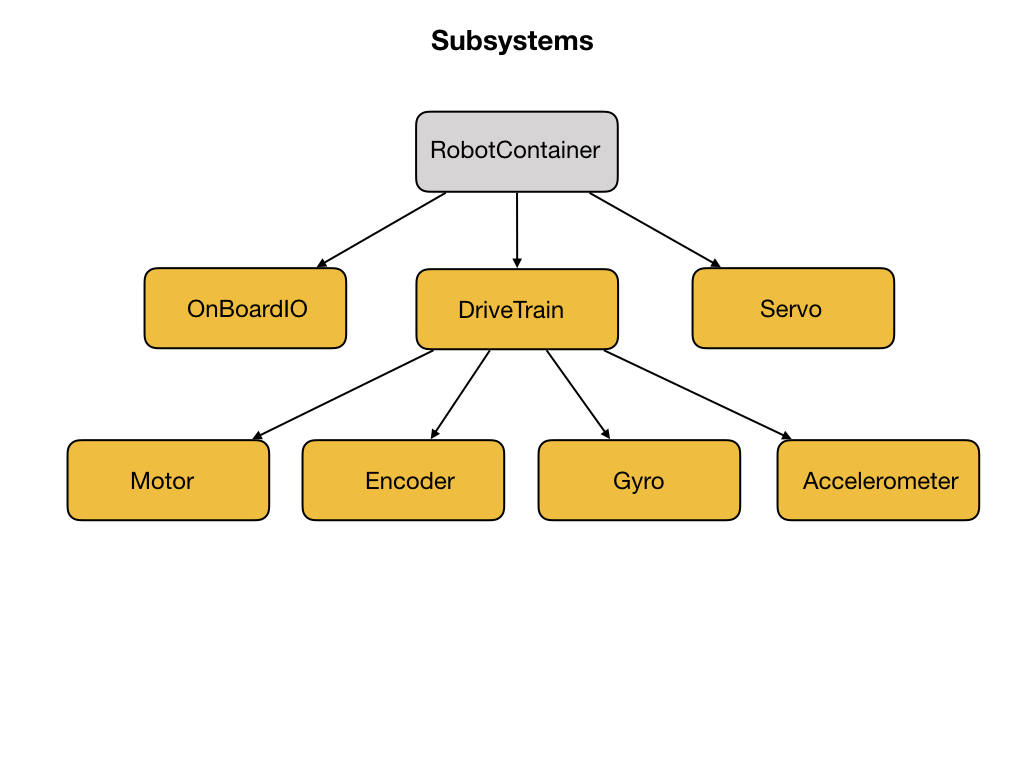
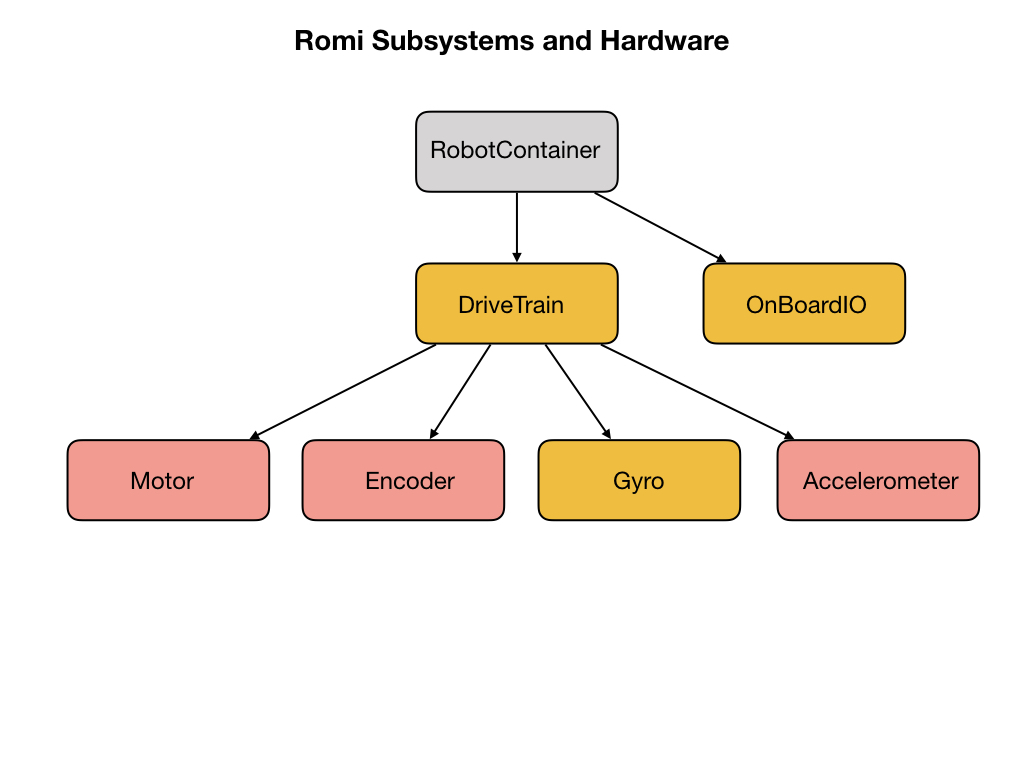
Added FRC Documentation links

diff --git a/Tools/romiSubsystems.md b/Tools/romiSubsystems.md
@@ -1,12 +1,16 @@
 # <a name="code"></a>Subsystems
-Subsystems are the basic unit of robot organization in the Command-based framework.  They encapsulate low-level hardware objects (motor controllers, sensors, etc) and provide methods that can be used by Commands.  Hardware resources used within a subsystem should generally remain encapsulated and not be shared by other parts of the robot.
+Subsystems are the basic units of functionally for our robot, such as drive trains and mechanical arms.  They encapsulate low-level hardware objects (motor controllers, sensors, etc) and provide methods that can be used by Commands.  We represent subsystems in code by using [Objects](../Programming/objects). Objects are composed of [Data Structures](../Programming/dataStructures) and [Procedures](../Programming/procedures), as explained in [Introduction to Programming](../Programming/introProgramming). You should learn those concepts before we look at the subsystems that are on the Romi.  
+
+ More information can be found in the [Subsystems](https://docs.wpilib.org/en/latest/docs/software/commandbased/subsystems.html) section of the FRC Documentation.  
 
 ![Subsystems](../images/Romi/Romi.012.jpeg)
 
-## Lab - DriveTrain Subsystem
-Explain the DriveTrain class and 
+## DriveTrain Subsystem
+The Romi uses a drive train called a [Differential Drive](https://docs.wpilib.org/en/stable/docs/software/actuators/wpi-drive-classes.html#using-the-differentialdrive-class-to-control-differential-drive-robots). There are three [drive train modes](https://docs.wpilib.org/en/stable/docs/software/actuators/wpi-drive-classes.html#drive-modes) that can be implemented. The Romi uses the **Arcade** drive mode. To understand what type of maneuvers are possible using a Differential Drive robots we need to learn a little bit about [Kinematics](../Concepts/kinematics).
 
-## Lab - Gyro Subsystem
+![Differential Drive](../images/Romi/Romi.038.jpeg)
+
+## Gyro Subsystem
 add in the Gyro class.
 
 ## The periodic( ) method
@@ -15,6 +19,13 @@ This method is called periodically by the CommandScheduler. Useful for updating 
 ## The register( ) method 
  Subsystems must be registered with the scheduler with the CommandScheduler's **registerSubsystem( )** method in order for the Subsystem **periodic()** method to be called. It is recommended that this method be called from the constructor of users' Subsystem implementations. The SubsystemBase class offers a simple base for user implementations that handles this.
 
+## References
+
+- FRC Documentation - [Subsystems](https://docs.wpilib.org/en/latest/docs/software/commandbased/subsystems.html)
+
+- FRC Documentation - [Diffential Drive Robots](https://docs.wpilib.org/en/stable/docs/software/actuators/wpi-drive-classes.html)
+
+- QUT Robot Academy [Measuring Motion](https://robotacademy.net.au/masterclass/measuring-motion/)
 
 <h3><span style="float:left">
 <a href="romiCode1">Previous</a></span>

diff --git a/Concepts/RobotSystem/sensors.md b/Concepts/RobotSystem/sensors.md
@@ -1,5 +1,19 @@
 # Sensors
 
+## Encoders
+FRC Documentation - [Encoders](https://docs.wpilib.org/en/latest/docs/software/hardware-apis/sensors/encoders-software.html)
+
+## Gyros
+FRC Documentation - [Gyros](https://docs.wpilib.org/en/latest/docs/software/hardware-apis/sensors/gyros-software.html)
+
+Also QUT Robot Academy [Measuring Motion](https://robotacademy.net.au/masterclass/measuring-motion/)
+
+## Accelerometers
+FRC Documentation - [Accelerometers](https://docs.wpilib.org/en/latest/docs/software/hardware-apis/sensors/accelerometers-software.html)
+
+## Cameras
+The camera corresponds to the eye in the robot. The images obtained from the camera are very useful for recognizing the environment around the robot. For example, object recognition using a camera image, facial recognition, a distance value obtained from the difference between two different images using two cameras (stereo camera), mono camera visual SLAM, color recognition using information obtained from an image and object tracking are very useful.
+
 ## Laser Distance Sensors (LDS)
 Edit all of this....
 Laser Distance Sensors (LDS) are referred to various names such as Light Detection And Ranging (LiDAR), Laser Range Finder (LRF) and Laser Scanner. LDS is a sensor used to measure the distance to an object using a laser as its source. The LDS sensor has the advantage of high performance, high speed, real time data acquisition, so it has a wide range of applications in relation to distance measurement. This is a sensor widely used in the field of robots for recognition of objects and people, and distance sensor based SLAM (distance-based sensor), and also widely used in unmanned vehicles due to its real time data acquisition.
@@ -12,9 +26,8 @@ Also, because the horizontal plane is scanned, only objects on the horizontal pl
 
 There are infinite usages of LDS, and SLAM (Simultaneous Localization And Mapping)16 is one of the most well known examples of using LDS. SLAM creates a map by recognizing obstacles around the robot and estimates current position of the robot within a map. As another example of using LDS, the robot is able to detect various objects in the surroundings and react based on the current environment. 
 
-## Cameras
-The camera corresponds to the eye in the robot. The images obtained from the camera are very useful for recognizing the environment around the robot. For example, object recognition using a camera image, facial recognition, a distance value obtained from the difference between two different images using two cameras (stereo camera), mono camera visual SLAM, color recognition using information obtained from an image and object tracking are very useful.
-
+## References
+- FRC Documentation - [Sensors](https://docs.wpilib.org/en/latest/docs/software/hardware-apis/sensors/index.html)
 
 <h3><span style="float:left">
 <a href="intro">Previous</a></span>

diff --git a/Tools/romiCommands.md b/Tools/romiCommands.md
@@ -1,5 +1,7 @@
 # <a name="code"></a>Commands
-Commands define high-level robot actions or behaviors that utilize the methods defined by the subsystems. A command is a simple state machine that is either initializing, executing, ending, or idle. Users write code specifying which action should be taken in each state. Subsystems are used by the CommandScheduler resource management system to ensure multiple robot actions are not "fighting" over the same hardware resource. Commands that use a subsystem should include that subsystem in their getRequirements() method.
+Commands define high-level robot actions or behaviors that utilize the methods defined by the subsystems. Before looking at the commands that are implemented on the Romi you should be very familiar with [Procedures](../Programming/procedures) and [State Machines](../Programming/stateMachines) from the programming sections.  You should also review the FRC Documentation on [Commands](https://docs.wpilib.org/en/latest/docs/software/commandbased/commands.html) before continuing.
+
+A command is a simple state machine that is either initializing, executing, ending, or idle. Users write code specifying which action should be taken in each state. Subsystems are used by the CommandScheduler resource management system to ensure multiple robot actions are not "fighting" over the same hardware resource. Commands that use a subsystem should include that subsystem in their `getRequirements()` method.
 
 ![Commands](../images/Romi/Romi.015.jpeg)
 
@@ -56,9 +58,10 @@ Add the DriveDistance and TurnDegrees commands.
 Configure joystick buttons to run commands.
 
 
-
-
 ## References
+
+- FRC Documentation - [Command Based Programming](https://docs.wpilib.org/en/latest/docs/software/commandbased/index.html)
+
 [Amazon Example](https://s3.amazonaws.com/screensteps_live/exported/Wpilib/2078/2286/Command_based_programming.pdf?1478686718)
 
 <h3><span style="float:left">

diff --git a/Tools/VSCode.md b/Tools/VSCode.md
@@ -7,7 +7,7 @@ An Integrated Development Environment (IDE) is a piece of software that is used 
 - Applies colour schemes to your code so it’s easier to interpret.
 - Some will have code completion, which will actually fill in some code for you. 
 
-Visual Studio Code is the supported IDE for programming an FRC robot. If you don't have VSCode installed on your computer the best way of doing this is to follow the instructions on the [FRC Documentation Website](https://docs.wpilib.org/en/latest/docs/getting-started/getting-started-frc-control-system/wpilib-setup.html). These instructions will also install the WPI Library which is used for programming the FRC robot.
+Visual Studio Code is the supported IDE for programming an FRC robot. If you don't have VSCode installed on your computer the best way of doing this is to follow the instructions on the [FRC Documentation Website](https://docs.wpilib.org/en/latest/docs/getting-started/getting-started-frc-control-system/wpilib-setup.html). These instructions will also install the WPI Library which is used for programming the FRC robot. Additional information is also found at [FRC Documentation VSCode Overview](https://docs.wpilib.org/en/latest/docs/software/vscode-overview/index.html).
 
 ## Using Live Share
 Live Share enables you to quickly collaborate with a friend, classmate, or professor on the same code without the need to sync code or to configure the same development tools, settings, or environment.
@@ -55,7 +55,9 @@ To end a Live Share session click on the **X** next to the participants name.
 ![End Session](../images/Tools/LSEndSession.png)
 
 
-## Additional References
+## References
+
+- FRC Documentation - [VSCode Overview](https://docs.wpilib.org/en/latest/docs/software/vscode-overview/index.html)
 
 Here are some videos that give you a good introduction to VSCode:
 

diff --git a/Tools/romiPathPlanning.md b/Tools/romiPathPlanning.md
@@ -2,13 +2,17 @@
 Use Ramsete controller to follow a path.
 
 ## References
-[FRC Documentation - Path Planning](https://docs.wpilib.org/en/latest/docs/software/pathplanning/index.html)
+- FRC Documentation - [Path Planning](https://docs.wpilib.org/en/latest/docs/software/pathplanning/index.html)
 
-[FRC Documentation - Trajectory Following](https://docs.wpilib.org/en/latest/docs/software/advanced-controls/trajectories/index.html)
+- FRC Documentation - [Trajectory Following](https://docs.wpilib.org/en/latest/docs/software/advanced-controls/trajectories/index.html)
 
-[Ramsete Example Code - github](https://github.com/bb-frc-workshops/romi-examples/tree/main/romi-trajectory-ramsete)
+- FRC Documentation - [Robot Characterization](https://docs.wpilib.org/en/stable/docs/software/wpilib-tools/robot-characterization/index.html)
 
-[Auto driving example - github](https://github.com/calcmogul/auton-driving-presentation)
+- FRC Documentation - [PathWeaver](https://docs.wpilib.org/en/stable/docs/software/wpilib-tools/pathweaver/index.html)
+
+- [Ramsete Example Code - github](https://github.com/bb-frc-workshops/romi-examples/tree/main/romi-trajectory-ramsete)
+
+- [Auto driving example - github](https://github.com/calcmogul/auton-driving-presentation)
 
 
 <h3><span style="float:left">

diff --git a/Programming/stateMachines.md b/Programming/stateMachines.md
@@ -1,11 +1,36 @@
 # State Machines
 
+1. Initial State
 
-Initial State
-Next Step (receive and process new input)
-Measurement Update (transduce, make repeated calls to Step)
+2. Next Step (receive and process new input)
+
+3. Measurement Update (transduce, make repeated calls to Step)
 
 ![State Machines](../images/FRCProgramming/FRCProgramming.009.jpeg)
+
+Let's look at code from the Romi reference program to see an example of a State Machine.
+
+    // Called when the command is initially scheduled.
+      public void initialize() {
+        m_drive.arcadeDrive(0, 0);
+        m_drive.resetEncoders();
+      }
+
+    // Called every time the scheduler runs while the command is scheduled.
+    public void execute() {
+      m_drive.arcadeDrive(m_speed, 0);
+    }
+
+    // Called once the command ends or is interrupted.
+    public void end(boolean interrupted) {
+      m_drive.arcadeDrive(0, 0);
+    }
+
+    // Returns true when the command should end.
+    public boolean isFinished() {
+      // Compare distance travelled from start to desired distance
+      return Math.abs(m_drive.getAverageDistanceInch()) >= m_distance;
+    }
 
 <h3><span style="float:left">
 <a href="objects">Previous</a></span>

diff --git a/Tools/romi.md b/Tools/romi.md
@@ -1,7 +1,6 @@
 # Romi Training Robot
 The <i>Romi Robot</i> is designed to be used as a teaching tool for programming teams involved in the <i>First Robotics Competition (FRC)</i>.  The following tutorials make use of the Romi Robot to teach beginning and intermediate programming.  By the time you finish the tutorials you will have a firm grasp on how to program robots, and the code that you develop will translate almost directly over to programming the robots used for FRC.
 
-
 ## Basic Programming
 - [Romi Development Environment](romiDev)
 - [Romi Example Code](romiExample)
@@ -9,11 +8,11 @@ The <i>Romi Robot</i> is designed to be used as a teaching tool for programming 
 - [Subsystems](romiSubsystems)
 - [Commands](romiCommands)
 - [Configuring Joysticks](romiJoysticks)
-- [Shuffleboard](romiShuffleboard)
 - [Advanced Commands](romiAdvancedCommands)
 
 ## Advanced Programming
 - [Network Tables](romiNetworkTables)
+- [Motion Control](romiMotion)
 - [Path Planning and Trajectory Following](romiPathPlanning)
 - [Vision Programming](romiVision)
 - [PID and Line Following](romiPID)

diff --git a/Tools/romiMotion.md b/Tools/romiMotion.md
@@ -1,0 +1,17 @@
+# Motion Control
+
+## References
+
+- FRC Documentation - [PID Basics](https://docs.wpilib.org/en/stable/docs/software/advanced-controls/introduction/index.html)
+
+- FRC Documentation - [PID Control through PIDSubsystems and PIDCommands](https://docs.wpilib.org/en/latest/docs/software/commandbased/pid-subsystems-commands.html#)
+
+- FRC Documentation - [Motion Profiling through TrapezoidProfileSubsystems and TrapezoidProfileCommands](https://docs.wpilib.org/en/latest/docs/software/commandbased/profile-subsystems-commands.html)
+
+- FRC Documentation - [Combining Motion Profiling and PID in Command-Based](https://docs.wpilib.org/en/latest/docs/software/commandbased/profilepid-subsystems-commands.html)
+
+
+<h3><span style="float:left">
+<a href="romiNetworkTables">Previous</a></span>
+<span style="float:right">
+<a href="romiPathPlanning">Next</a></span></h3>

diff --git a/index.md b/index.md
@@ -8,11 +8,14 @@ The subjects that will be covered in this course of training include:
 
 So let's get started.
 
-- Development Environment
+- Development Environment 
   - [Romi Training Robot](Tools/romi.md)
   - [VSCode](Tools/VSCode.md)
   - [Git](Tools/git.md) 
+  
+- Tools
   - [Robot Simulator](Tools/simulator.md)
+  - [Shuffleboard](Tools/romiShuffleboard)
   <!-- - [BabyBot](Tools/trainingRobot.md) -->
 - Programming
   - [Introduction to Programming](Programming/introProgramming)
@@ -30,7 +33,6 @@ So let's get started.
   <!-- - [Odometry](Concepts/Odometry/intro.md) -->
   - [Navigation](Concepts/navigation)
   - [Localization](Concepts/localization)
-  
   
 - Vision  
   - [Vision](Vision/intro.md)

diff --git a/Programming/procedures.md b/Programming/procedures.md
@@ -1,8 +1,6 @@
 # Procedures
 
-Procedures are tasks that are performed...example...
-In robotics they are often carried out as a result of a command that is sent, or as a result of feedback from a sensor.
-They can be carried out repeatedly.
+Procedures are blocks of code that perform tasks when they called.  An example of a task that may be performed by a mobile robot is "Drive forward 10 meters". In robotics they are often carried out as a result of a command that is sent, or as a result of feedback from a sensor.  Tasks can be carried out repeatedly.
 Can use different parameters in order to carry out the task.
 They will often change the state of a system.
 

diff --git a/Programming/classes.md b/Programming/classes.md
@@ -48,6 +48,10 @@ When a class derives from another class. The child class will inherit all the `p
 
 When a property or class has the `protected` modifier it means that a sub-class may access the variable but it is still `private` to the superclass.  Therefore, the variable <i>brand</i> is only accessible from the class <i>Car</i>.
 
+## References
+
+- W3Schools -  [Java Classes and Objects](https://www.w3schools.com/java/java_classes.asp)
+
 <h3><span style="float:left">
 <a href="intro.md">Home</a></span>
 <span style="float:right">

diff --git a/Tools/romiNetworkTables.md b/Tools/romiNetworkTables.md
@@ -1,0 +1,13 @@
+# Network Tables
+
+## References
+
+- FRC Documentation - [Network Tables](https://docs.wpilib.org/en/stable/docs/software/networktables/index.html)
+
+- FRC Documentation - [Outline Viewer](https://docs.wpilib.org/en/stable/docs/software/wpilib-tools/outlineviewer/index.html)
+
+
+<h3><span style="float:left">
+<a href="romi">Previous</a></span>
+<span style="float:right">
+<a href="romiMotion">Next</a></span></h3>
